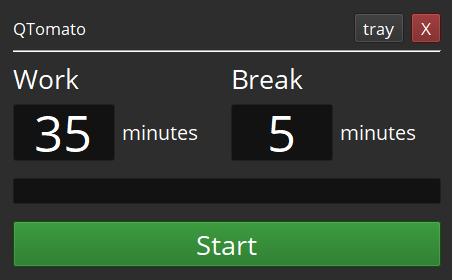
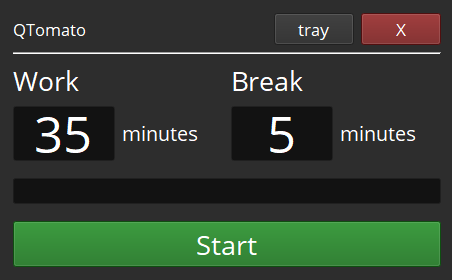
Fixed bug with scaling on Windows.

diff --git a/src/mainwindow.cpp b/src/mainwindow.cpp
@@ -29,8 +29,8 @@ MainWindow::MainWindow(QWidget*)
     setFixedSize(this->size());
 
     // ui controls config
-    ui->closeButton->setFixedSize(QSize(30, 30));
-    ui->trayButton->setFixedSize(QSize(50, 30));
+    //ui->closeButton->setFixedSize(QSize(30, 30));
+    //ui->trayButton->setFixedSize(QSize(50, 30));
     ui->closeButton->setStyleSheet("background-color: rgb(112, 21, 21);");
     ui->stopButton->setStyleSheet("background-color: rgb(112, 21, 21);");
     ui->startButton->setStyleSheet("background-color: rgb(20, 110, 23);");
@@ -38,7 +38,7 @@ MainWindow::MainWindow(QWidget*)
     ui->bottomLine2->setStyleSheet("color: transparent;");
     ui->stopButton->setEnabled(false);
     ui->stopButton->setVisible(false);
-    adjustSize();
+
 
     ui->workMinutes->setValidator( new QIntValidator(1, 900, this) );
     ui->breakMinutes->setValidator( new QIntValidator(1, 300, this) );
@@ -78,6 +78,8 @@ MainWindow::MainWindow(QWidget*)
     connect(this, SIGNAL(startWorkSession()), this, SLOT(launch()));
     connect(this, SIGNAL(finished()), this, SLOT(workSessionFinished()));
     connect(this, SIGNAL(stopRequested()), this, SLOT(stop()));
+
+    adjustSize();
 }
 
 void MainWindow::showHide(QSystemTrayIcon::ActivationReason r)

diff --git a/src/main.cpp b/src/main.cpp
@@ -9,7 +9,7 @@
 
 int main(int argc, char *argv[])
 {
-
+    QGuiApplication::setAttribute(Qt::AA_EnableHighDpiScaling);
     QApplication a(argc, argv);
     MainWindow w;
 
